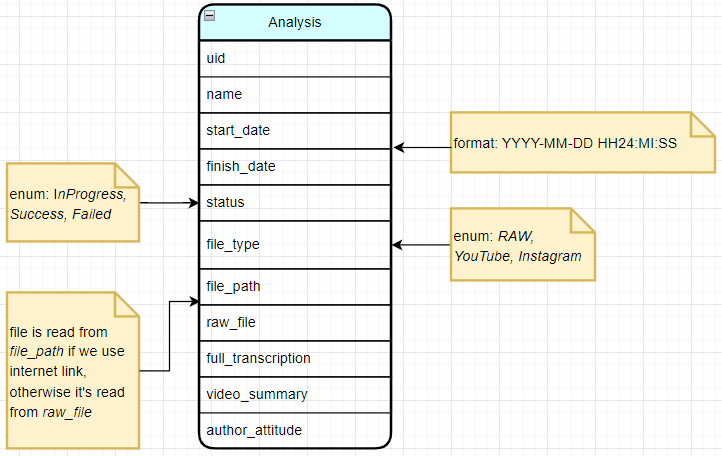
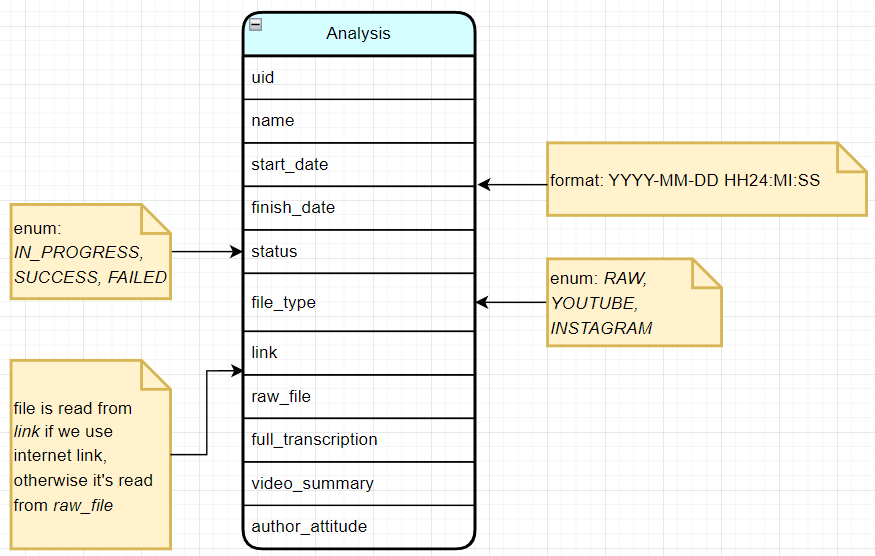
Fix enum naming.

Changed region(s): [[0.0, 0.0, 1.0, 1.0]]

diff --git a/DATA_LAYER.md b/DATA_LAYER.md
@@ -2,7 +2,6 @@
 The database management system used in this project is MongoDB.
 ## Diagram of the NoSQL database
 ![img.png](Images/database_diagram.png)
-
 ## Example
 ```json
 {
@@ -10,9 +9,9 @@ The database management system used in this project is MongoDB.
     "name":  "Indestructible shoes",
     "start_date":  "2023-04-21 13:45:00",
     "finish_date":  "2023-04-21 14:37:35",
-    "status":  "Success",
-    "file_type":  "YouTube",
-    "file_path":  "https://www.youtube.com/watch?v=4Tm0TCx6G4s&ab_channel=MarekAdBusterHoffmann",
+    "status":  "SUCCESS",
+    "file_type":  "YOUTUBE",
+    "link":  "https://www.youtube.com/watch?v=4Tm0TCx6G4s&ab_channel=MarekAdBusterHoffmann",
     "raw_file":  "",
     "full_transcription":  "[...]",
     "video_summary": "Truly indestructible shoes",
